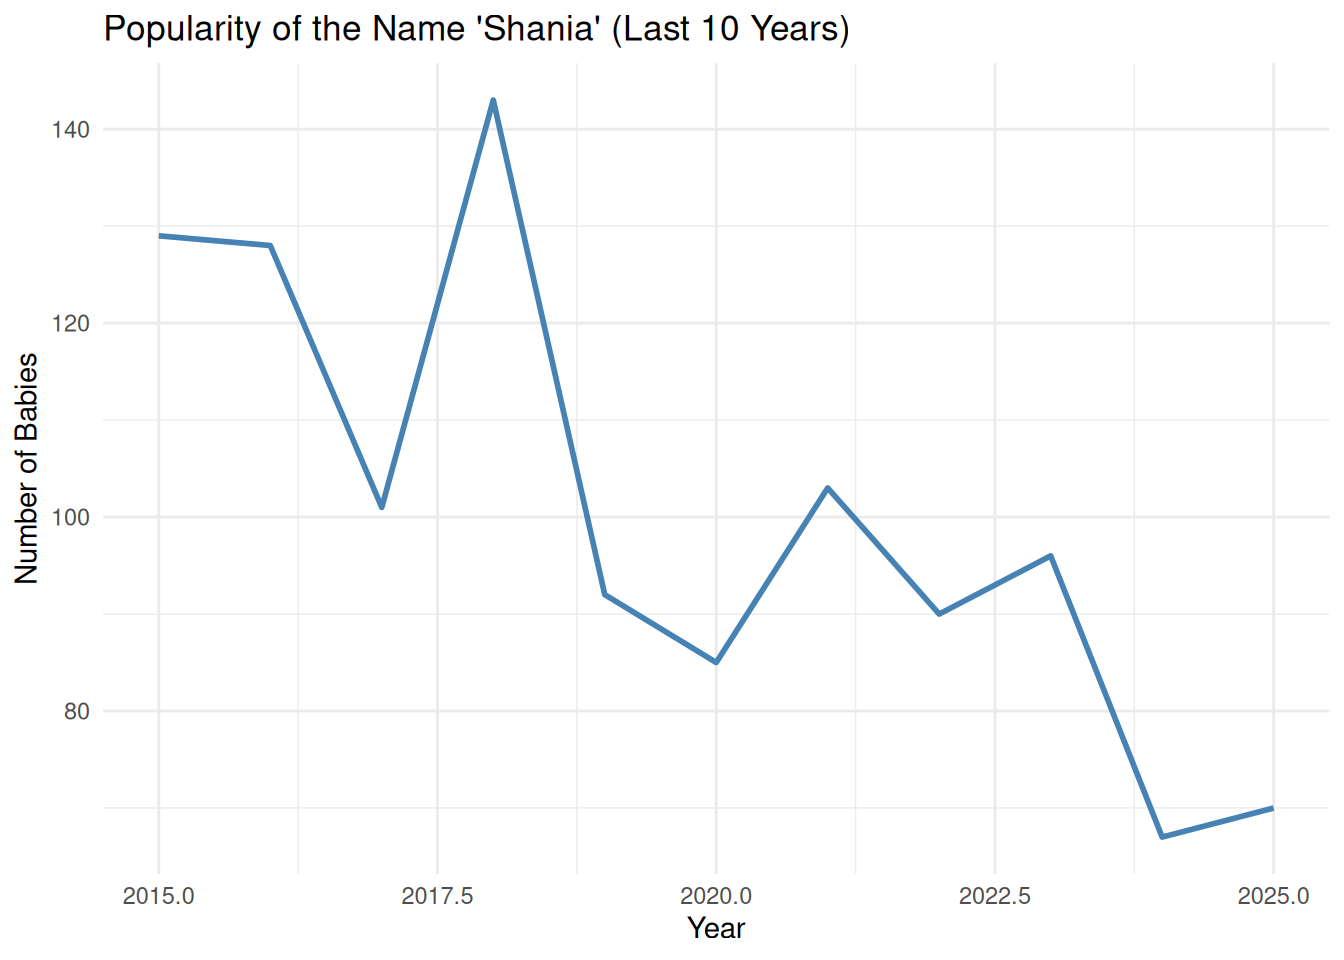
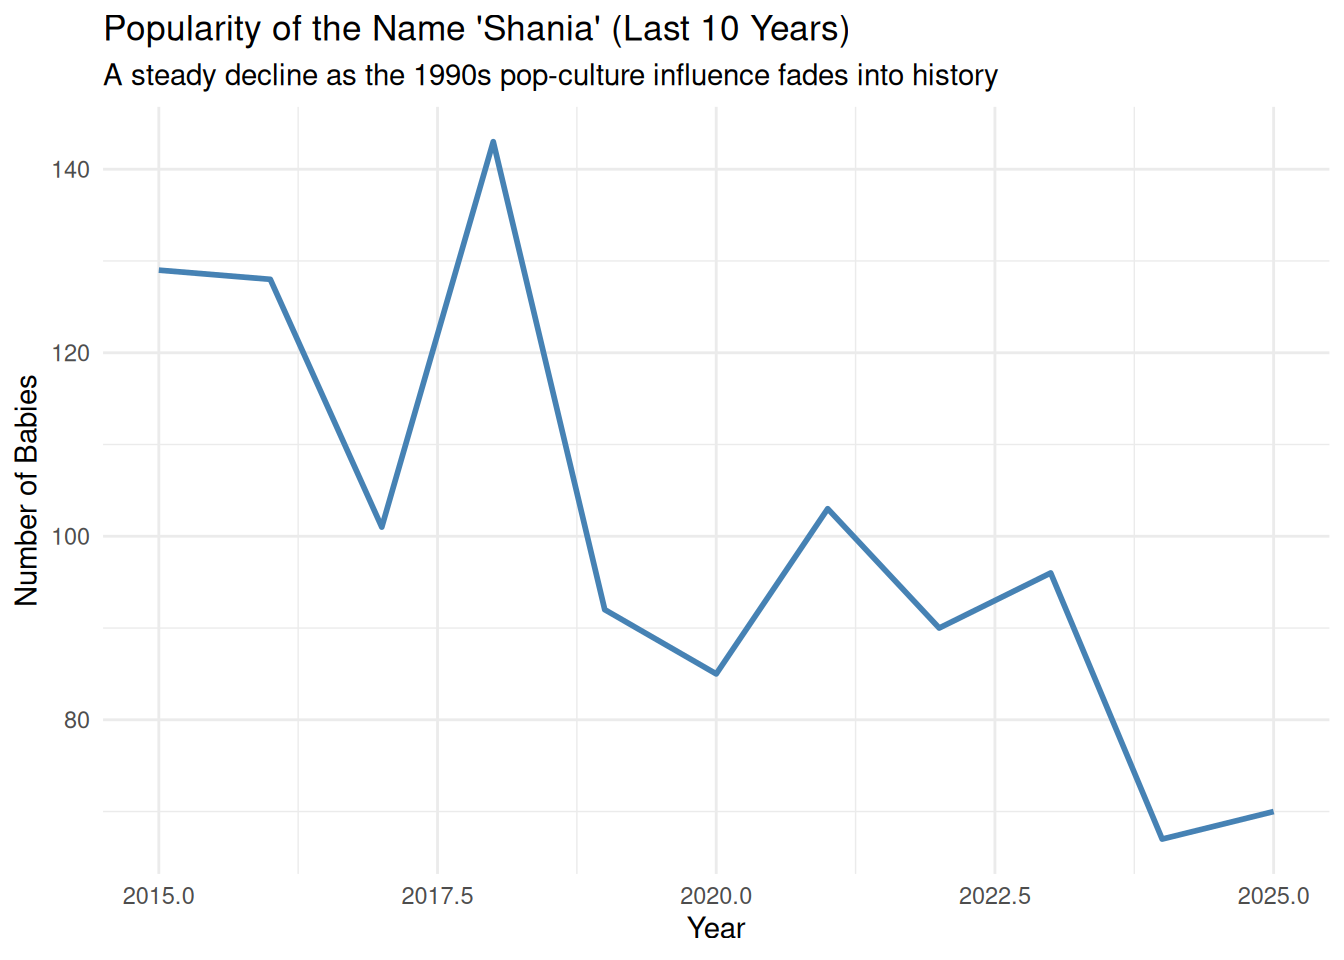
3rd version

diff --git a/names.html b/names.html
@@ -79,7 +79,7 @@ ul.task-list li input[type="checkbox"] {
 </div>
 </div>
 </div>
-<p>Over the last 100 years, the name <strong>Shania</strong> was absent from records until 1970. It experienced a dramatic surge in the mid-to-late 1990s, peaking in 1996 with 1,837 babies (likely influenced by country star Shania Twain), followed by a steady decline over the last two decades.</p>
+<p>Over the last 100 years, the name <strong>Shania</strong> was absent from records until 1970. Its dramatic explosion in the mid-1990s directly aligns with the February 1995 release of Shania Twain’s smash-hit album, <em><a href="https://en.wikipedia.org/wiki/The_Woman_in_Me_(album)">The Woman in Me</a></em>. Following this peak of 1,837 babies in 1996, the name has steadily declined.</p>
 <div class="cell">
 <div class="cell-output-display">
 <div>
